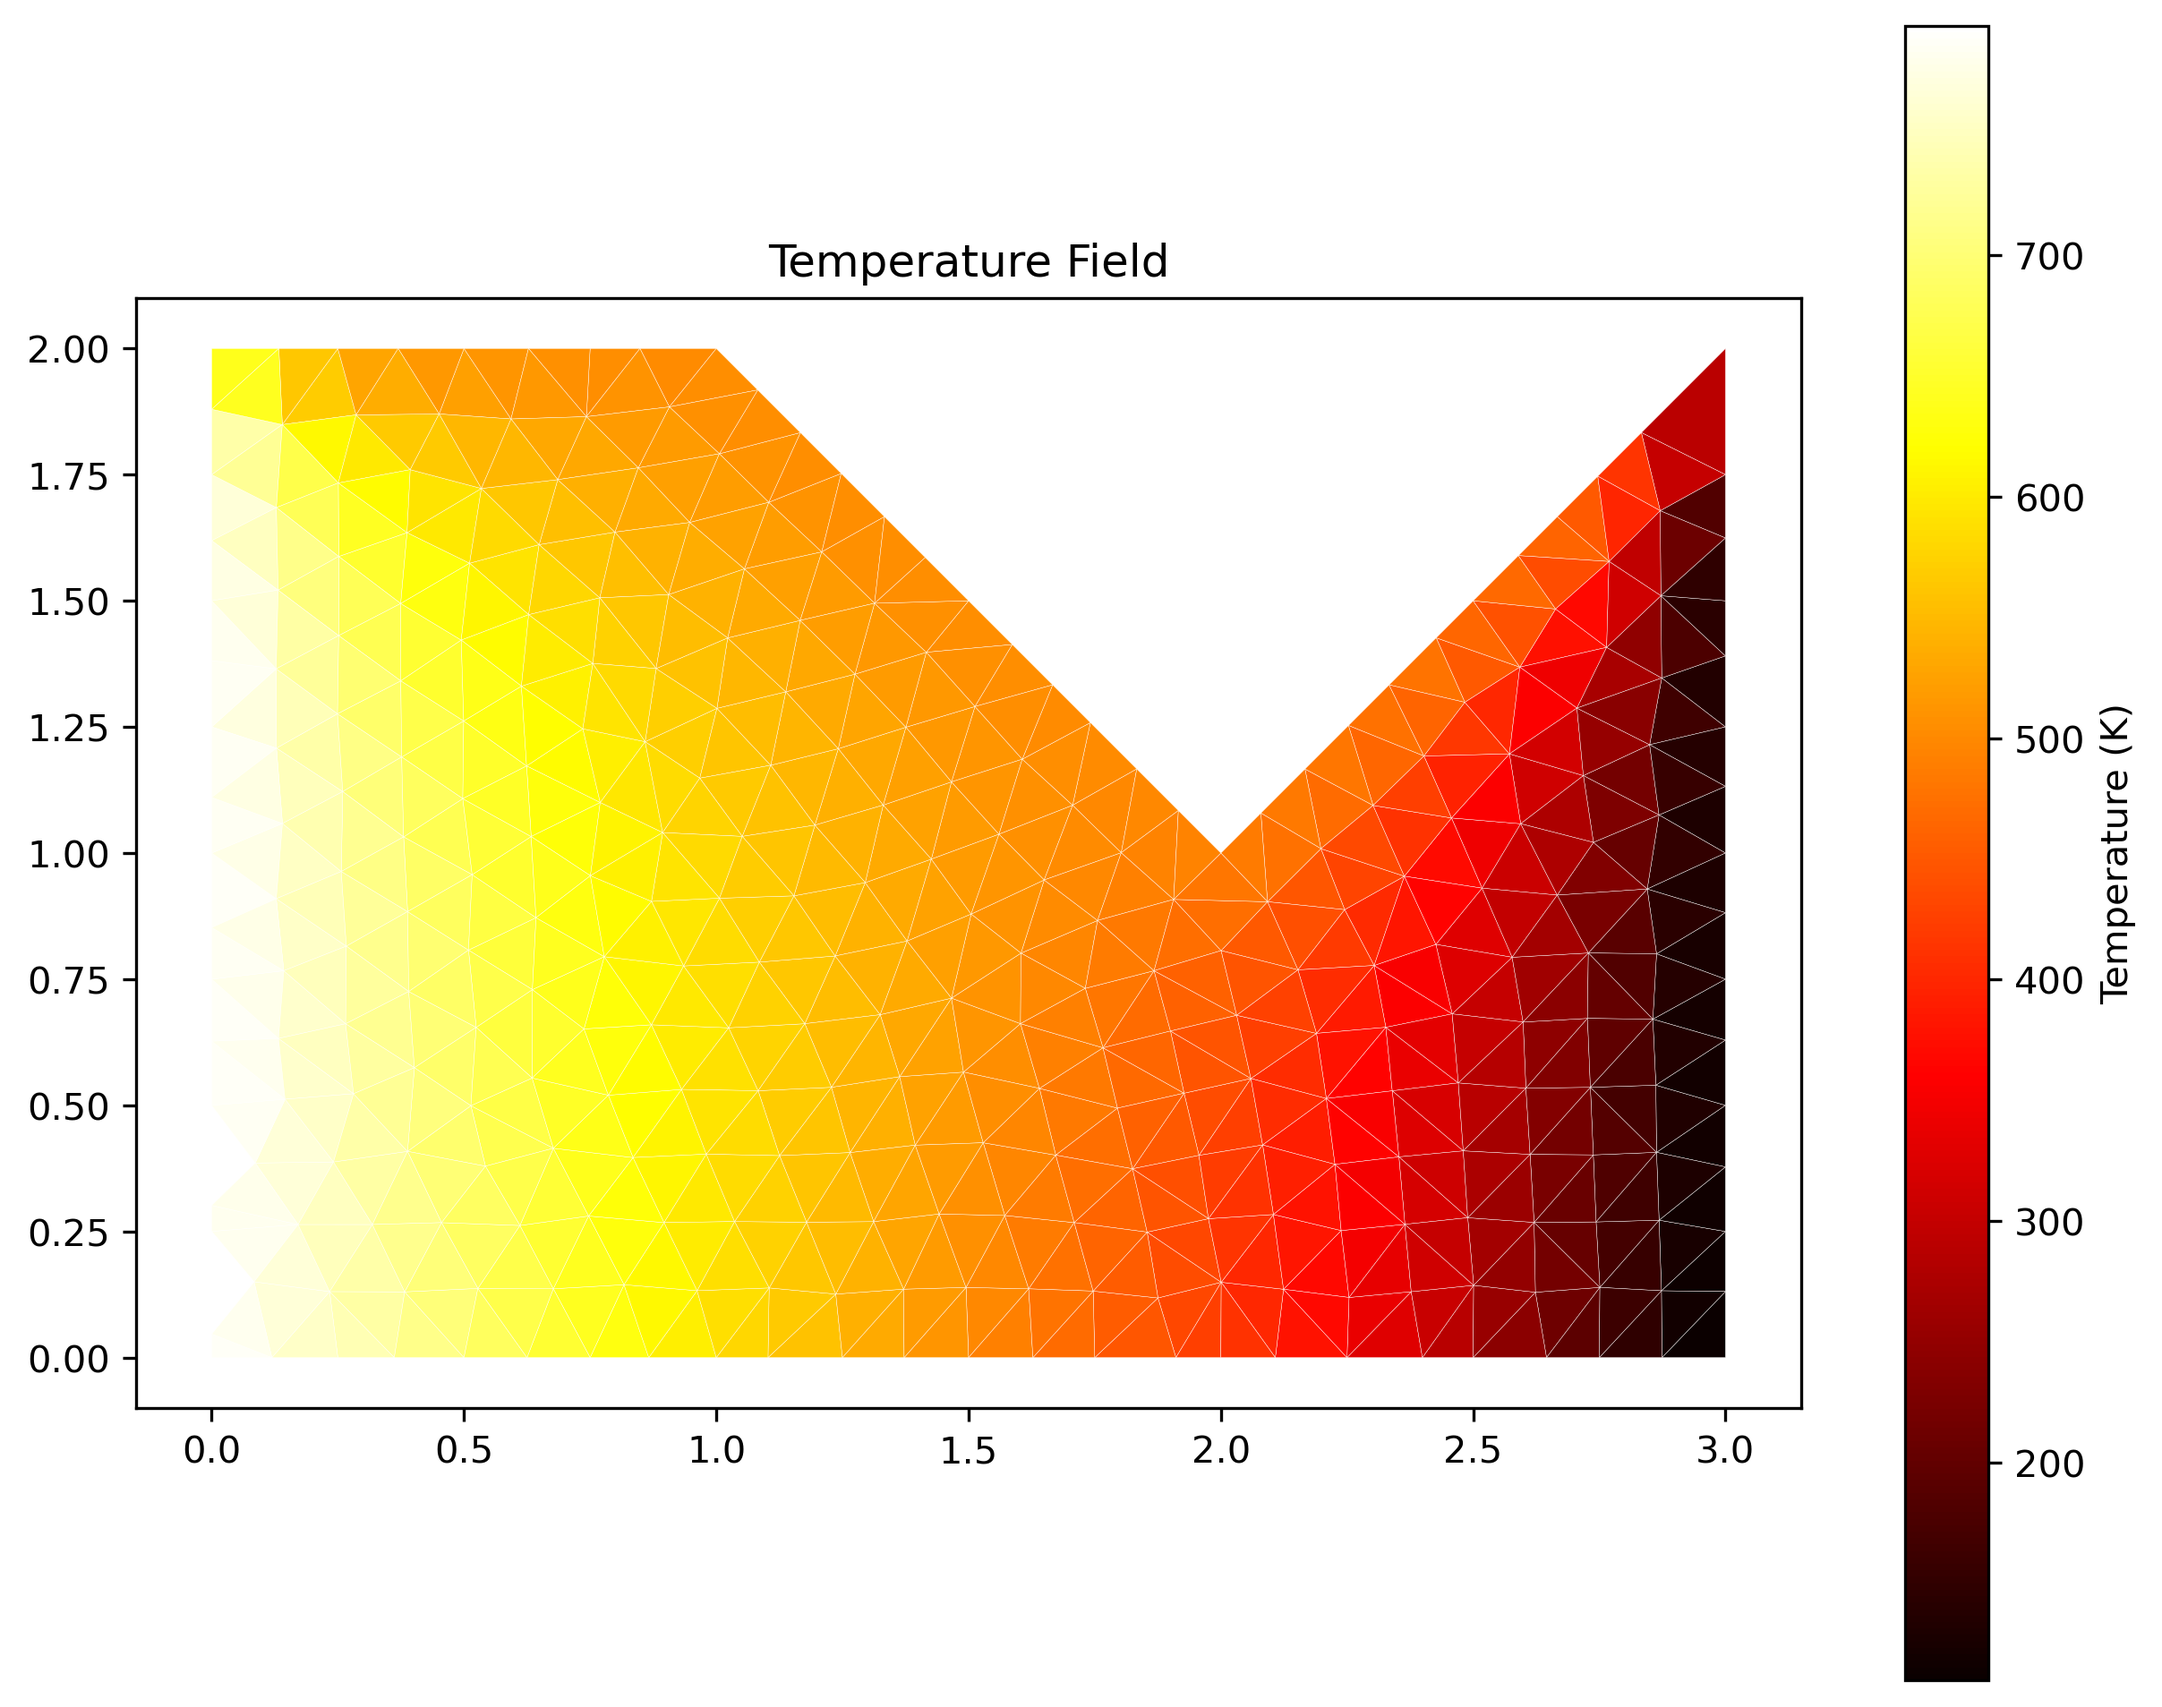
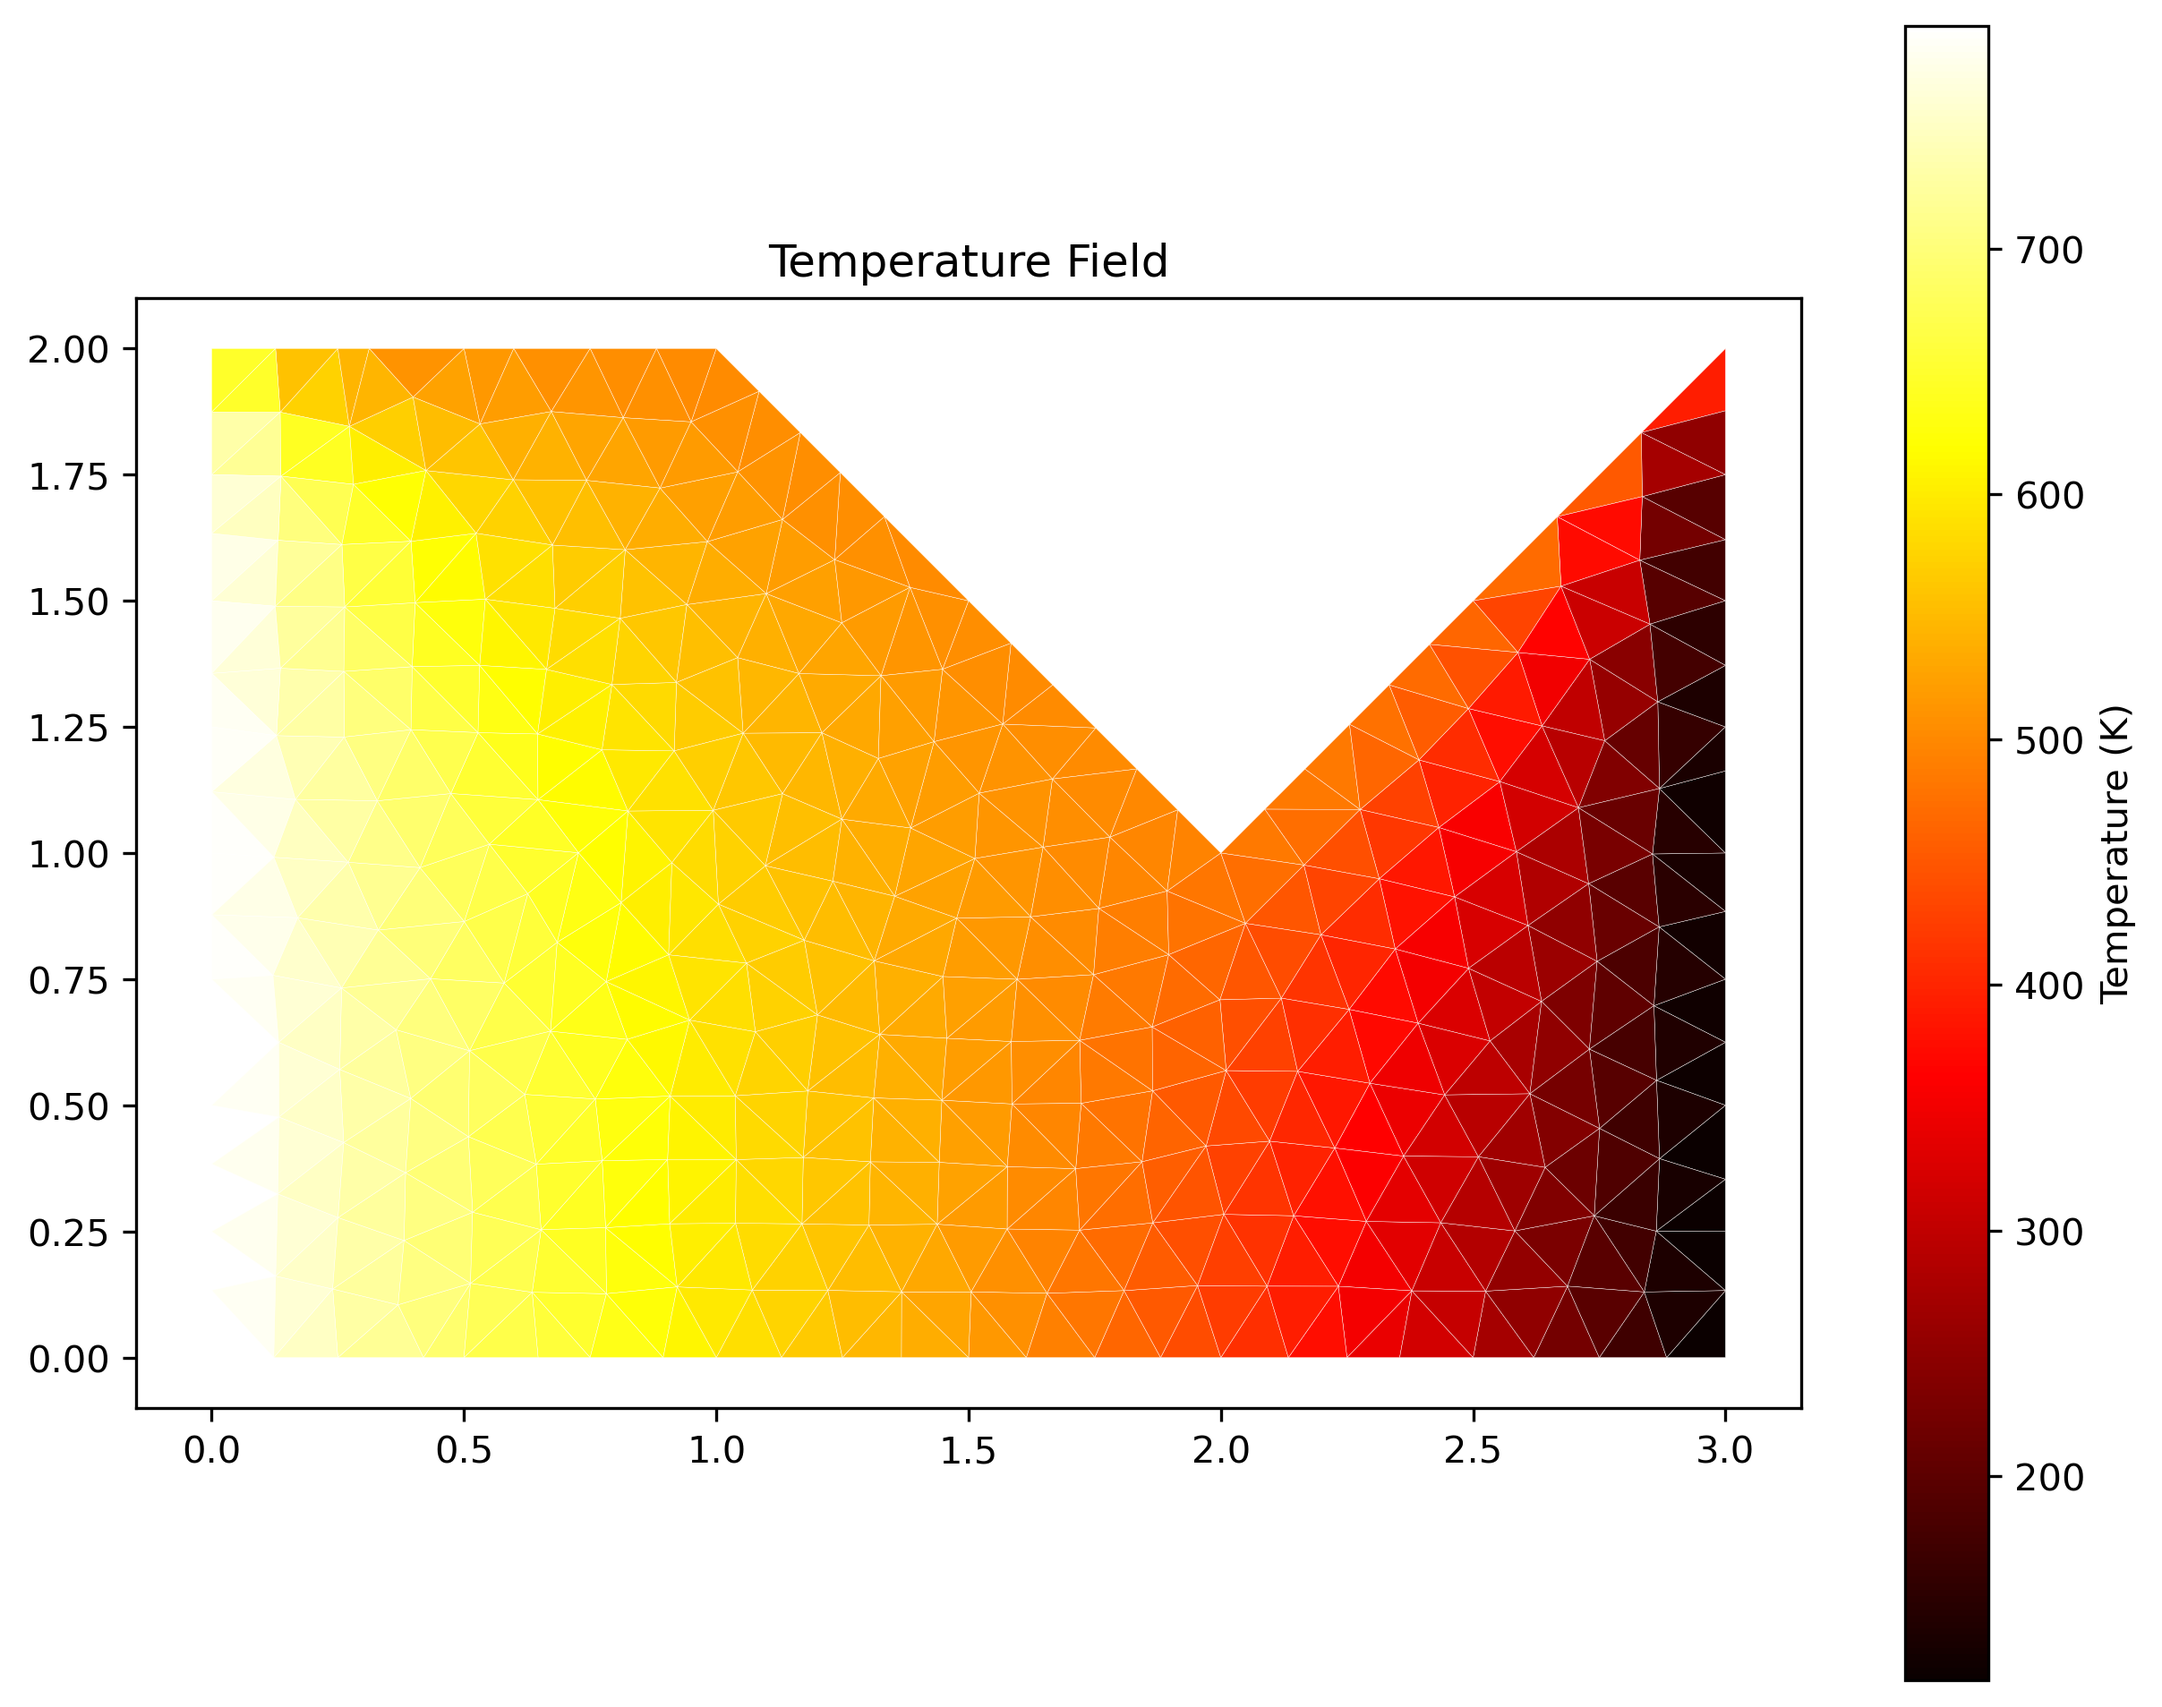
Added reporting class and advection calculations.  It is not verified to be correct yet, but it looks reasonable

diff --git a/main.py b/main.py
@@ -1,75 +1,53 @@
 ''' main.py '''
 import numpy as np
 from core import input_reader
+from report.reporting import FVMReporter
 from mesh import MeshGenerator
 from viz import MeshPlotter
 from mesh.smoothing import distmesh_smoother  
 from mesh.connectivity import build_fvm_connectivity, map_boundary_faces
 from mesh.geometry import compute_cell_metrics, compute_fvm_face_metrics, compute_fvm_weights
-from solver.steady_state import solve_diffusion
+from solver.steady_state import solve_advection_diffusion
 
 if __name__ == '__main__':
     
-    # 1. Load Input Data
+    # 1. Initialization
     data = input_reader('geom1.inp')
     calc_mode = data['settings'].get('mode', 'axisymmetric')
-    
-    print(f"--- DIAGNOSTIC: System Initialization ---")
-    print(f"Calculation Mode: {calc_mode}")
-    print(f"Nodes Loaded: {len(data['nodes'])}")
-    print(f"Faces Loaded: {len(data['faces'])}")
+    FVMReporter.sys_init(calc_mode, data)
 
-    # 2. Extract BC values into a dictionary for the solver: {tag: value}
-    bc_values = {row['id']: row['v'] for row in data['boundaries']}
-    print(f"Boundary Conditions: {bc_values}")
-
-    # 3. Mesh Generation
-    print(f"\n--- DIAGNOSTIC: Mesh Generation ---")
+    # 2. Mesh Generation
     mesh = MeshGenerator(data, smoother=distmesh_smoother)
-    smoothed_points, final_cells = mesh.generate(niters=1000)
-    
-    q_vals, q_stats = mesh.get_quality(smoothed_points, final_cells)
-    print(f"Mesh Quality - Avg: {q_stats['avg']:.4f}, Min: {q_stats['min']:.4f}")
+    points, cells = mesh.generate(niters=1000)
+    _, q_stats = mesh.get_quality(points, cells)
 
-    # 4. FVM Connectivity & Metrics
-    print(f"\n--- DIAGNOSTIC: FVM Topology & Metrics ---")
-    face_nodes, face_cells, cell_faces = build_fvm_connectivity(final_cells)
-    
-    # Pass 'calc_mode' to apply 2*pi*y scaling if axisymmetric
-    cell_volumes, cell_centroids = compute_cell_metrics(smoothed_points, final_cells, mode=calc_mode)
-    face_areas, face_normals, face_midpoints = compute_fvm_face_metrics(
-        smoothed_points, face_nodes, face_cells, cell_centroids, mode=calc_mode
+    # 3. FVM Topology & Metrics
+    face_nodes, face_cells, cell_faces = build_fvm_connectivity(cells)
+    cell_vols, cell_centroids = compute_cell_metrics(points, cells, mode=calc_mode)
+    face_areas, face_normals, face_mids = compute_fvm_face_metrics(
+        points, face_nodes, face_cells, cell_centroids, mode=calc_mode
     )
-    
-    print(f"Total Domain Volume: {np.sum(cell_volumes):.6f}")
-    print(f"Internal Faces: {np.sum(face_cells[:, 1] != -1)}")
-    print(f"Boundary Faces: {np.sum(face_cells[:, 1] == -1)}")
+    FVMReporter.mesh_stats(q_stats, cell_vols)
+    FVMReporter.topology(face_cells)
 
-    # 5. Boundary Mapping & Solver
-    bc_groups = map_boundary_faces(smoothed_points, face_nodes, face_cells, data['nodes'], data['faces'])    
-    d_PN, gx, vec_PN = compute_fvm_weights(face_cells, cell_centroids, face_midpoints)
+    # 4. Phase 2 Setup: Constant Velocity Field
+    # u = 2.0 m/s (Axial), v = 0.0 m/s (Radial)
+    u_field = np.zeros((len(face_areas), 2))
+    u_field[:, 0] = 2.0 
     
-    # Solve Diffusion
-    T = solve_diffusion(
-        face_cells, face_areas, d_PN, bc_groups, cell_volumes, k=1.0, bc_values=bc_values
+    # 5. Mapping and Solver
+    bc_values = {row['id']: row['v'] for row in data['boundaries']}
+    bc_groups = map_boundary_faces(points, face_nodes, face_cells, data['nodes'], data['faces'])    
+    d_PN, _, _ = compute_fvm_weights(face_cells, cell_centroids, face_mids)
+    
+    T = solve_advection_diffusion(
+        face_cells, face_areas, face_normals, d_PN, bc_groups, 
+        cell_vols, u_field, k=1.0, bc_values=bc_values
     )
+    FVMReporter.scalar_report(T)
     
-    # 6. Final Reports
-    print(f"\n--- FVM GRADIENT REPORT ---")
-    print(f"Temperature Range: {np.min(T):.2f}K to {np.max(T):.2f}K")
-    
-    # 7. Visualization
-    plot_data = {'xv': smoothed_points[:, 0], 'yv': smoothed_points[:, 1], 'lcv': final_cells}
-    
-    # Mesh Structure
-    mesh_view = MeshPlotter(arrays=plot_data)
-    mesh_view.plot_edges()
-    mesh_view.plot_nodes()
-    mesh_view.save('snapmesh_sources.png')
-    
-    # Thermal Gradient
+    # 6. Visualization
+    plot_data = {'xv': points[:, 0], 'yv': points[:, 1], 'lcv': cells}
     thermal_view = MeshPlotter(arrays=plot_data)
-    thermal_view.plot_scalar(smoothed_points, final_cells, T)
-    thermal_view.save('thermal_gradient.png')
-    
+    thermal_view.plot_scalar(points, cells, T, title=f"Advection-Diffusion (Axisymmetric)")
     thermal_view.show()

diff --git a/solver/steady_state.py b/solver/steady_state.py
@@ -6,7 +6,32 @@ from scipy.sparse.linalg import spsolve
 def solve_diffusion(face_cells, face_areas, d_PN, bc_groups, cell_volumes, k=1.0, bc_values=None):
     """
     Assembles and solves the Laplacian: div(k grad T) = 0.
-    In Axisymmetric mode, face_areas = L * 2 * pi * r.
+    """
+    n_cells = len(cell_volumes)
+    A = lil_matrix((n_cells, n_cells))
+    b = np.zeros(n_cells)
+    
+    for f_idx in np.where(face_cells[:, 1] != -1)[0]:
+        P, N = face_cells[f_idx]
+        coeff = (k * face_areas[f_idx]) / d_PN[f_idx]
+        A[P, P] -= coeff; A[P, N] += coeff
+        A[N, N] -= coeff; A[N, P] += coeff
+
+    if bc_values is not None:
+        for tag, T_val in bc_values.items():
+            if tag in bc_groups:
+                for f_idx in bc_groups[tag]:
+                    P = face_cells[f_idx, 0]
+                    coeff = (k * face_areas[f_idx]) / d_PN[f_idx]
+                    A[P, P] -= coeff
+                    b[P]    -= coeff * T_val
+
+    return spsolve(A.tocsr(), b)
+
+def solve_advection_diffusion(face_cells, face_areas, face_normals, d_PN, bc_groups, 
+                              cell_volumes, u_field, k=1.0, bc_values=None):
+    """
+    Solves the steady-state Advection-Diffusion equation with Upwind discretization.
     """
     n_cells = len(cell_volumes)
     A = lil_matrix((n_cells, n_cells))
@@ -16,21 +41,36 @@ def solve_diffusion(face_cells, face_areas, d_PN, bc_groups, cell_volumes, k=1.0
     internal_mask = face_cells[:, 1] != -1
     for f_idx in np.where(internal_mask)[0]:
         P, N = face_cells[f_idx]
-        # Flux = k * Area * (T_N - T_P) / d_PN
-        coeff = (k * face_areas[f_idx]) / d_PN[f_idx]
-        A[P, P] -= coeff; A[P, N] += coeff
-        A[N, N] -= coeff; A[N, P] += coeff
+        diff_coeff = (k * face_areas[f_idx]) / d_PN[f_idx]
+        
+        # Convective mass flux (u . n) * Area
+        u_face = u_field[f_idx]
+        mass_flux = np.dot(u_face, face_normals[f_idx]) * face_areas[f_idx]
+        
+        # Matrix Contributions
+        A[P, P] -= diff_coeff; A[P, N] += diff_coeff
+        A[N, N] -= diff_coeff; A[N, P] += diff_coeff
+        
+        if mass_flux > 0: # Out of P into N
+            A[P, P] -= mass_flux; A[N, P] += mass_flux
+        else: # Out of N into P
+            A[N, N] += mass_flux; A[P, N] -= mass_flux
 
     # 2. Boundary Conditions
     if bc_values is not None:
-        for tag, T_val in bc_values.items():
+        for tag, val in bc_values.items():
             if tag in bc_groups:
                 for f_idx in bc_groups[tag]:
                     P = face_cells[f_idx, 0]
-                    # Boundary flux uses distance from cell center to face midpoint
-                    # which is already captured in d_PN for boundary faces.
-                    coeff = (k * face_areas[f_idx]) / d_PN[f_idx]
-                    A[P, P] -= coeff
-                    b[P]    -= coeff * T_val
+                    diff_coeff = (k * face_areas[f_idx]) / d_PN[f_idx]
+                    A[P, P] -= diff_coeff
+                    b[P]    -= diff_coeff * val
+                    
+                    u_face = u_field[f_idx]
+                    mass_flux = np.dot(u_face, face_normals[f_idx]) * face_areas[f_idx]
+                    if mass_flux > 0: # Outflow
+                        A[P, P] -= mass_flux
+                    else: # Inflow
+                        b[P] -= mass_flux * val
 
     return spsolve(A.tocsr(), b)

diff --git a/report/reporting.py b/report/reporting.py
@@ -1,0 +1,35 @@
+''' report/reporting.py '''
+import numpy as np
+
+class FVMReporter:
+    @staticmethod
+    def sys_init(calc_mode, data):
+        """ Reports the initial state and loaded configuration. """
+        print(f"--- DIAGNOSTIC: System Initialization ---")
+        print(f"  - Calculation Mode: {calc_mode}")
+        print(f"  - Nodes Loaded:     {len(data['nodes'])}")
+        print(f"  - Faces Loaded:     {len(data['faces'])}")
+        print(f"  - Boundary Tags:    {list(np.unique(data['boundaries']['id']))}")
+
+    @staticmethod
+    def mesh_stats(q_stats, cell_vols):
+        """ Reports on the geometric integrity of the generated mesh. """
+        print(f"\n--- DIAGNOSTIC: Mesh Quality & Geometry ---")
+        print(f"  - Quality (Avg):    {q_stats['avg']:.4f}")
+        print(f"  - Quality (Min):    {q_stats['min']:.4f}")
+        print(f"  - Total Volume:     {np.sum(cell_vols):.6f}")
+
+    @staticmethod
+    def topology(face_cells):
+        """ Reports the connectivity counts for the Finite Volume Method. """
+        internal = np.sum(face_cells[:, 1] != -1)
+        boundary = np.sum(face_cells[:, 1] == -1)
+        print(f"\n--- DIAGNOSTIC: FVM Topology ---")
+        print(f"  - Internal Faces:   {internal}")
+        print(f"  - Boundary Faces:   {boundary}")
+
+    @staticmethod
+    def scalar_report(scalar_field, label="Temperature"):
+        """ Reports the final range of the solved physical field. """
+        print(f"\n--- FVM GRADIENT REPORT: {label} ---")
+        print(f"  - Field Range:      {np.min(scalar_field):.2f}K to {np.max(scalar_field):.2f}K")

diff --git a/viz/plotter.py b/viz/plotter.py
@@ -33,9 +33,11 @@ class MeshPlotter:
         plt.savefig(filename, dpi=300, bbox_inches='tight')
         print(f"Plot saved to {filename}")
         
-    def plot_scalar(self, points, cells, scalar, title="Temperature Field", cmap='hot'):
-        """ Plots the scalar field on the triangular mesh. """
-        # tripcolor handles the unstructured grid plotting
+    def plot_scalar(self, points, cells, scalar, title="Temperature Field", cmap='viridis'):
+        """ 
+        Plots the scalar field. 
+        Recommended cmaps: 'magma', 'inferno', or 'viridis' for better clarity. 
+        """
         tpc = self.ax.tripcolor(points[:, 0], points[:, 1], cells, 
                                 facecolors=scalar, cmap=cmap, edgecolors='w', linewidth=0.1)
         self.fig.colorbar(tpc, ax=self.ax, label='Temperature (K)')

diff --git a/report/__init__.py b/report/__init__.py
@@ -1,0 +1,2 @@
+''' report/__init__.py '''
+from .reporting import FVMReporter
